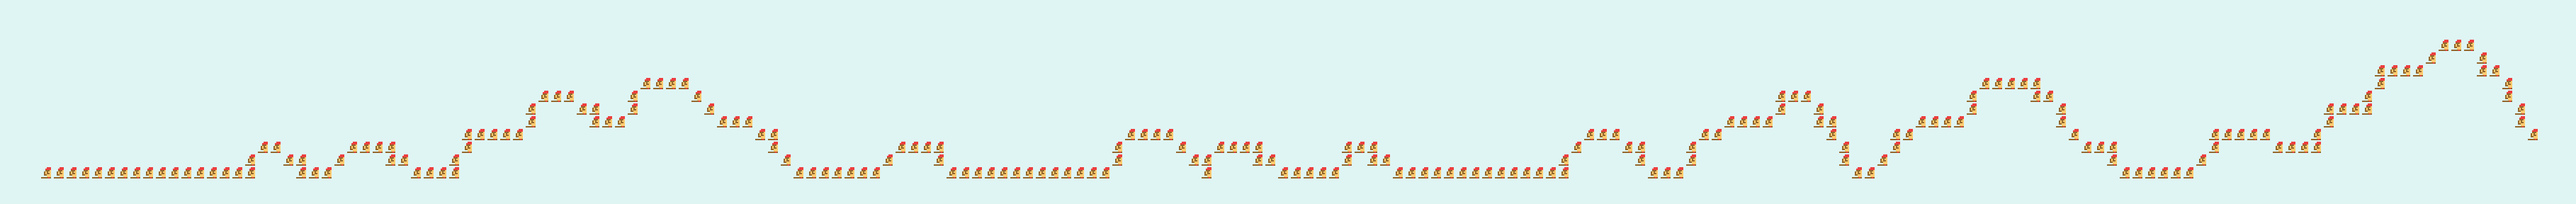
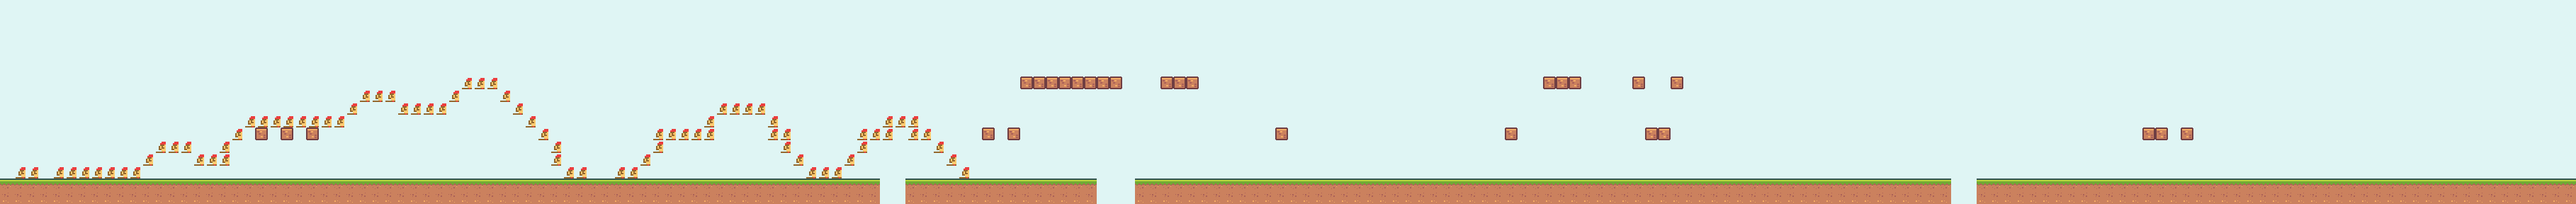
Updated the code so that the level and path data is merged together. Also updated the visualizer so that it can show other tile elements

diff --git a/Mario-AI-Framework/src/visualize.py b/Mario-AI-Framework/src/visualize.py
@@ -26,6 +26,10 @@ visualization["S"] = "brick"
 visualization["?"] = "exclamationBox"
 visualization["Q"] = "exclamationBoxEmpty"
 visualization["E"] = "enemy"
+visualization["g"] = "enemy"
+visualization["U"] = "exclamationBox"
+visualization["?"] = "exclamationBox"
+visualization["#"] = "pyramind"
 visualization["<"] = "bushTopLeft"
 visualization[">"] = "bushTopRight"
 visualization["["] = "bushLeft"
@@ -34,15 +38,24 @@ visualization["o"] = "coin"
 visualization["B"] = "arrowTop"
 visualization["b"] = "arrowBottom"
 visualization["x"] = "mario"
+visualization["L"] = "exclamationBox"
+visualization["@"] = "exclamationBox"
+visualization["T"] = "pipe" 
+visualization["C"] = "brick"
+visualization["M"] = "mario"
+visualization["k"] = "greenkoopa"
+visualization["r"] = "redkoopa"
+visualization["F"] = "finishline"
 
 # This reads in the level
 
 level = {}
 
-directoryName = "../../Output/"
+#directoryName = "../../Output/"
 #directoryName = "Data/Completionist/"
 #directoryName = "levels/original/"
-outputFileName = "example10path"
+directoryName = "Data/Speedrunner/"
+outputFileName = "lvl-2path"
 
 with open(directoryName+outputFileName+".txt") as fp:
 	y = 0
@@ -75,6 +88,8 @@ for y in range(0, maxY):
 			else:
 				imageToUse = sprites["stair"]
 
+		elif level[y][x]!='-':
+			print(level[y][x])
 		if not imageToUse == None:
 			#If we have a sprite (imageToUse) copy its pixels over
 			pixelsToUse = imageToUse.load()

diff --git a/Mario-AI-Framework/src/mergeLevelAndPath.py b/Mario-AI-Framework/src/mergeLevelAndPath.py
@@ -1,0 +1,36 @@
+# Code for merging together the level and path data together
+
+def main(): 
+
+	levelLocation = 'levels/original/'
+	levelName = 'lvl-2.txt'
+	dataSource = 'Speedrunner/'
+
+	with open(levelLocation+levelName) as fp:
+		levelData = fp.readlines()
+		levelData = [list(levelData[i].strip("\n")) for i in range(len(levelData))]
+	
+	with open('Data/'+dataSource+levelName) as fp2:
+		pathData = fp2.readlines()
+		pathData = [pathData[i].strip("\n") for i in range(len(pathData))]
+
+
+	assert(len(levelData) == len(pathData))
+	assert(len(levelData[0]) == len(pathData[0]))
+
+	for i in range(len(levelData)):
+		for j in range(len(levelData[0])):
+			if(pathData[i][j] == 'x' and levelData[i][j] == '-'):
+				levelData[i][j] = 'x'
+	f = open("Data/"+dataSource+levelName.strip(".txt")+"path"+".txt", "w")
+
+	for i in range(len(levelData)): 
+		level = levelData[i]
+		if(i<len(levelData)-1):
+			levelString = "".join(level)+"\n"
+		else:
+			levelString = "".join(level)
+		f.write(levelString)
+
+if __name__ == '__main__':
+    main()
